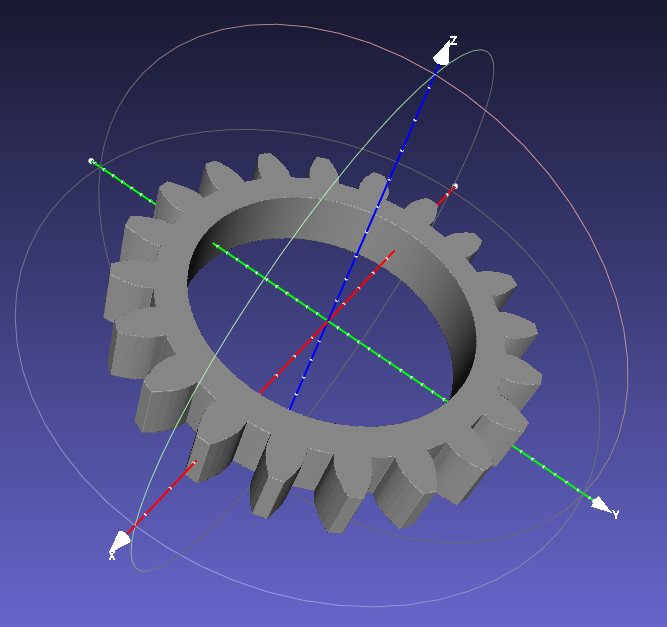
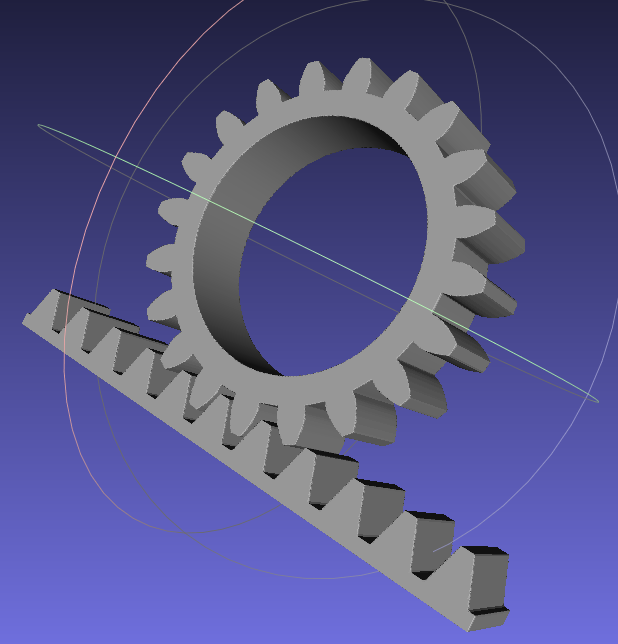
Added gear racks.

diff --git a/sdf/gears.go b/sdf/gears.go
@@ -140,3 +140,78 @@ func InvoluteGear(
 }
 
 //-----------------------------------------------------------------------------
+// 2D Gear Rack
+
+type GearRack struct {
+	tooth  SDF2    // polygon for rack tooth
+	pitch  float64 // tooth to tooth pitch
+	length float64 // half the total rack length
+	bb     Box2    // bounding box
+}
+
+// Create a 2D gear rack.
+// number_teeth = number of rack teeth
+// gear_module = pitch circle diameter / number of gear teeth
+// pressure_angle = gear pressure angle (radians)
+// backlash = backlash expressed as units of pitch circumference
+// base_height = height of rack base
+func NewGearRack(
+	number_teeth float64,
+	gear_module float64,
+	pressure_angle float64,
+	backlash float64,
+	base_height float64,
+) SDF2 {
+	s := GearRack{}
+
+	// addendum: distance from pitch line to top of tooth
+	addendum := gear_module * 1.0
+	// dedendum: distance from pitch line to root of tooth
+	dedendum := gear_module * 1.25
+	// total tooth height
+	tooth_height := base_height + addendum + dedendum
+	// tooth_pitch: tooth to tooth distance along pitch line
+	pitch := gear_module * PI
+
+	// x size of tooth flank
+	dx := (addendum + dedendum) * math.Tan(pressure_angle)
+	// 1/2 x size of tooth top
+	dxt := ((pitch / 2.0) - dx) / 2.0
+	// x size of backlash
+	bl := backlash / 2.0
+
+	// create a half tooth profile centered on the y-axis
+	tooth := []V2{
+		V2{pitch, 0},
+		V2{pitch, base_height},
+		V2{dx + dxt - bl, base_height},
+		V2{dxt - bl, tooth_height},
+		V2{-pitch, tooth_height},
+		V2{-pitch, 0},
+	}
+
+	s.tooth = NewPolySDF2(tooth)
+	s.pitch = pitch
+	s.length = pitch * number_teeth / 2.0
+	s.bb = Box2{V2{-s.length, 0}, V2{s.length, tooth_height}}
+	return &s
+}
+
+// Return the minimum distance to the gear rack.
+func (s *GearRack) Evaluate(p V2) float64 {
+	// map p.X back to the [0,half_pitch) domain
+	p0 := V2{Abs(SawTooth(p.X, s.pitch)), p.Y}
+	// get the tooth profile distance
+	d0 := s.tooth.Evaluate(p0)
+	// create a region for the rack length
+	d1 := Abs(p.X) - s.length
+	// return the intersection
+	return Max(d0, d1)
+}
+
+// Return the bounding box for the gear rack.
+func (s *GearRack) BoundingBox() Box2 {
+	return s.bb
+}
+
+//-----------------------------------------------------------------------------

diff --git a/examples/gears/main.go b/examples/gears/main.go
@@ -3,14 +3,35 @@ package main
 import . "github.com/deadsy/sdfx/sdf"
 
 func main() {
-	g := InvoluteGear(
-		20,             // number_teeth
-		(5.0/8.0)/20.0, // gear_module
-		DtoR(20.0),     // pressure_angle
-		0.0,            // backlash
-		0.0,            // clearance
-		0.05,           // ring_width
-		7,              // facets
+
+	module := (5.0 / 8.0) / 20.0
+	pa := DtoR(20.0)
+	h := 0.15
+	number_teeth := 20
+
+	gear_2d := InvoluteGear(
+		number_teeth, // number_teeth
+		module,       // gear_module
+		pa,           // pressure_angle
+		0.0,          // backlash
+		0.0,          // clearance
+		0.05,         // ring_width
+		7,            // facets
 	)
-	RenderSTL(NewExtrudeSDF3(g, 0.1), "gear.stl")
+	gear_3d := NewExtrudeSDF3(gear_2d, h)
+	m := Rotate3d(V3{0, 0, 1}, DtoR(180.0/float64(number_teeth)))
+	m = Translate3d(V3{0, 0.39, 0}).Mul(m)
+	gear_3d = NewTransformSDF3(gear_3d, m)
+
+	rack_2d := NewGearRack(
+		11,     // number_teeth
+		module, // gear_module
+		pa,     // pressure_angle
+		0.00,   // backlash
+		0.025,  // base_height
+	)
+	rack_3d := NewExtrudeSDF3(rack_2d, h)
+
+	s := NewUnionSDF3(rack_3d, gear_3d)
+	RenderSTL(s, "gear.stl")
 }

diff --git a/sdf/utils.go b/sdf/utils.go
@@ -89,6 +89,15 @@ func Sign(x float64) float64 {
 }
 
 //-----------------------------------------------------------------------------
+
+// sawtooth function: returns [-period/2, period/2)
+func SawTooth(x, period float64) float64 {
+	x += period / 2
+	t := x / period
+	return period*(t-math.Floor(t)) - period/2
+}
+
+//-----------------------------------------------------------------------------
 // Minimum Functions for SDF blending
 
 type MinFunc func(a, b, k float64) float64

diff --git a/sdf/render.go b/sdf/render.go
@@ -62,7 +62,7 @@ func RenderPNG(s SDF3, render_floor bool) {
 // Render an SDF3 as an STL triangle mesh file.
 func RenderSTL(s SDF3, path string) {
 
-	mesh_cells := 400.0 // number of mesh cells on major axis of SDF3 bounding box
+	mesh_cells := 199.0 // number of mesh cells on major axis of SDF3 bounding box
 
 	// work out the region we will sample
 	bb0 := s.BoundingBox()
